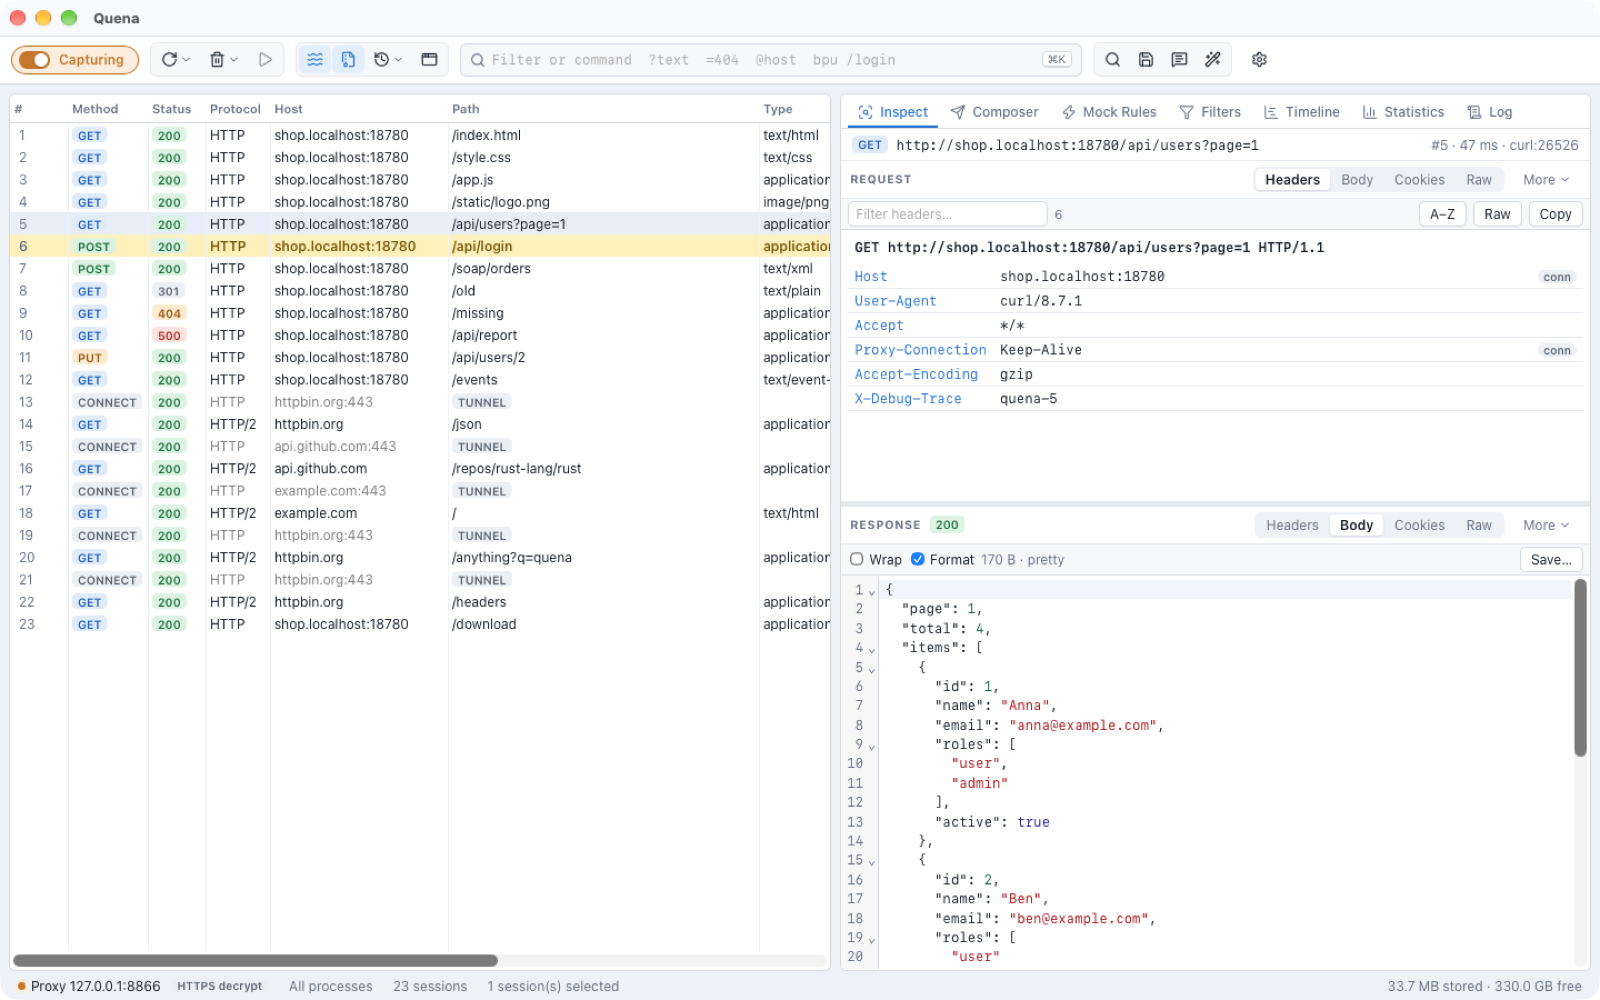
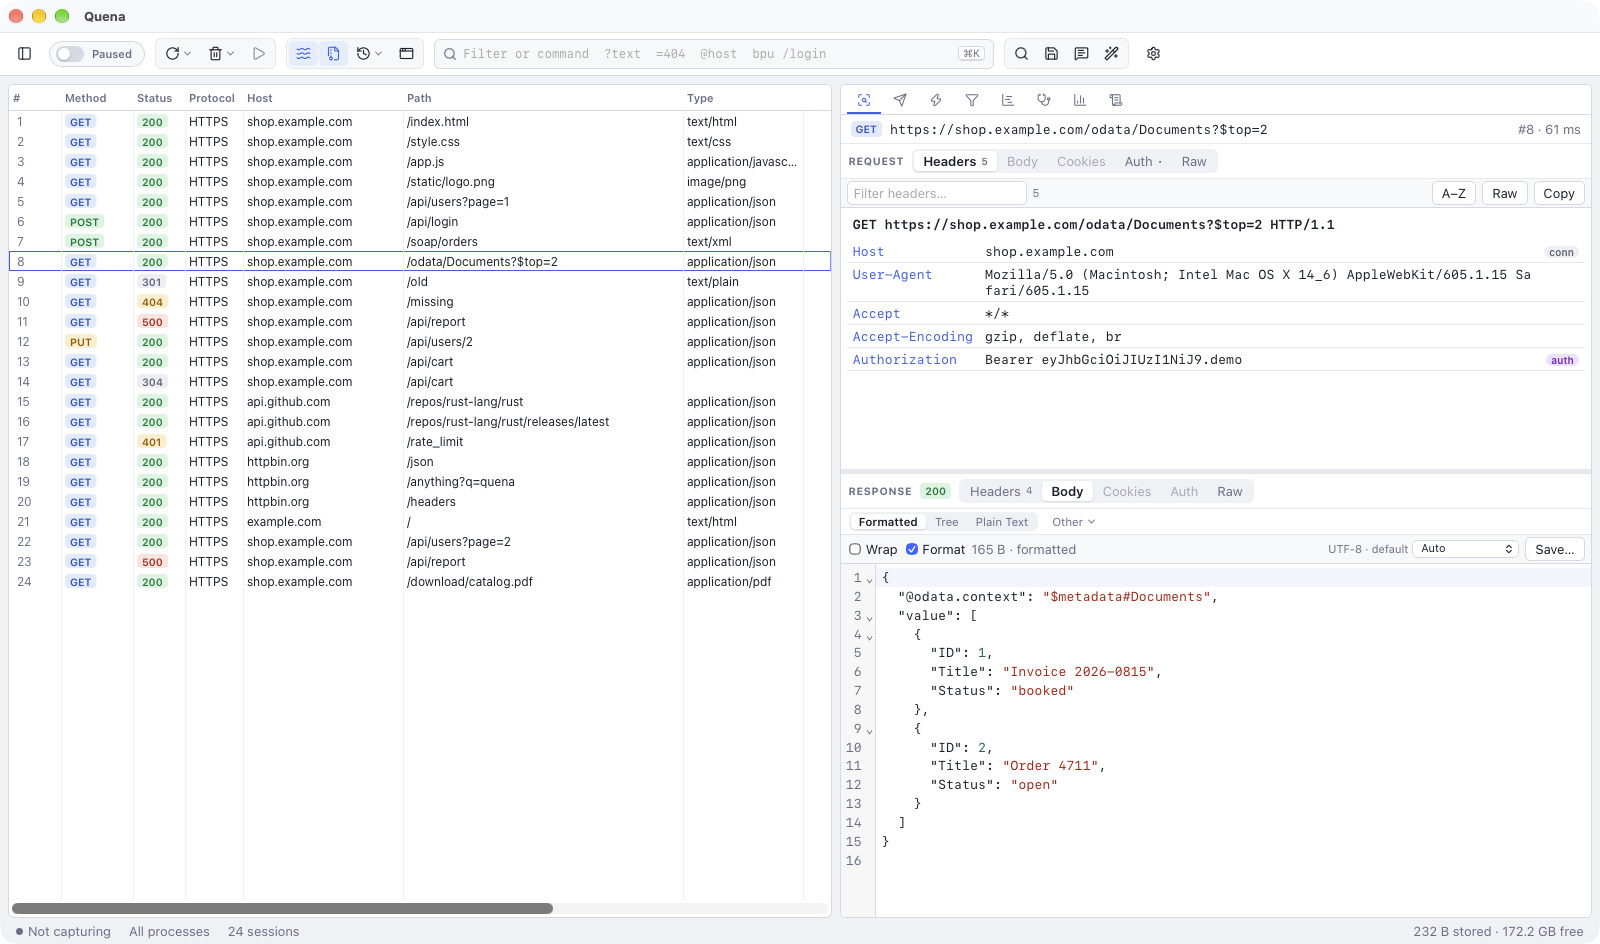
Review fixes: navigator opens with the structure until the list is grouped, a group-by change ends a group scope, groups reload at once; narrower Group column beside the navigator; group counts no longer overlap; layouts without a preset get Quena's; screenshots retaken, docs updated

diff --git a/app/ui/src/panels/Navigator.tsx b/app/ui/src/panels/Navigator.tsx
@@ -26,7 +26,9 @@ const REFRESH_MS = 1500;
 const SHOW = 500;
 
 export function Navigator() {
-  const mode = useStore((s) => s.layout.navMode ?? "groups");
+  // Until chosen: the groups when the list is grouped, else the structure (groups need a
+  // group-by first).
+  const mode = useStore((s) => s.layout.navMode ?? (s.layout.groupBy && s.layout.groupBy !== "none" ? "groups" : "structure"));
   const set = (m: "structure" | "groups") => {
     if (m === mode) return;
     void actions.setScope(null);
@@ -61,29 +63,34 @@ function GroupList() {
   const [filter, setFilter] = useState("");
   const [show, setShow] = useState(SHOW);
   const last = useRef(0);
+  const loadedBy = useRef<GroupBy | null>(null);
   const timer = useRef<number | undefined>(undefined);
 
   // At once when the group-by changes, at most every REFRESH_MS while sessions come in.
   useEffect(() => {
-    if (by === "none") return setData(null);
+    if (by === "none") {
+      loadedBy.current = null;
+      return setData(null);
+    }
+    const changed = loadedBy.current !== by;
+    if (changed) setShow(SHOW);
     const load = () => {
       last.current = Date.now();
-      void api.navGroups(by).then(setData, () => setData(null));
+      // A late answer for the previous group-by is dropped.
+      void api.navGroups(by).then(
+        (d) => loadedBy.current === by && setData(d),
+        () => loadedBy.current === by && setData(null),
+      );
     };
+    loadedBy.current = by;
     window.clearTimeout(timer.current);
-    const wait = Math.max(0, last.current + REFRESH_MS - Date.now());
+    const wait = changed ? 0 : Math.max(0, last.current + REFRESH_MS - Date.now());
     timer.current = window.setTimeout(load, wait);
     return () => window.clearTimeout(timer.current);
   }, [by, version]);
-  useEffect(() => {
-    last.current = 0;
-    setShow(SHOW);
-  }, [by]);
 
-  const choose = (g: GroupBy) => {
-    void actions.setScope(null);
-    void actions.setGroup(g);
-  };
+  // Narrowed to a group of another group-by, setGroup widens the list again.
+  const choose = (g: GroupBy) => void actions.setGroup(g);
   const active = (key: string) => scope?.kind === "group" && scope.by === by && scope.key === key;
   const f = filter.trim().toLowerCase();
   const groups = (data?.groups ?? []).filter((g) => !f || g.label.toLowerCase().includes(f));

diff --git a/app/ui/src/grid/SessionGrid.tsx b/app/ui/src/grid/SessionGrid.tsx
@@ -52,8 +52,9 @@ function groupLabel(r: SessionSummary, first: number): string {
 /** The Group column (first, while the list is grouped) and the visible columns, fitted. */
 export function displayColumns(width: number): ColumnConf[] {
   const { layout } = get();
-  const group: ColumnConf[] =
-    layout.groupBy && layout.groupBy !== "none" ? [{ key: "group", title: t("Group"), width: layout.groupWidth ?? 240, visible: true }] : [];
+  // With the navigator open it lists the groups' names: the column needs less room.
+  const groupWidth = layout.groupWidth ?? (layout.navOpen ? 150 : 240);
+  const group: ColumnConf[] = layout.groupBy && layout.groupBy !== "none" ? [{ key: "group", title: t("Group"), width: groupWidth, visible: true }] : [];
   return fitColumns([...group, ...layout.columns], width);
 }
 
@@ -215,7 +216,8 @@ export class GridController {
           s.layout.columns !== prev.layout.columns ||
           s.layout.preset !== prev.layout.preset ||
           s.layout.groupBy !== prev.layout.groupBy ||
-          s.layout.groupWidth !== prev.layout.groupWidth
+          s.layout.groupWidth !== prev.layout.groupWidth ||
+          s.layout.navOpen !== prev.layout.navOpen
         ) {
           this.updateSpacer();
           this.schedule();
@@ -274,9 +276,10 @@ export class GridController {
     const cw = ctx.measureText(count).width;
     const text = this.ell.fit(ctx, head, width - 22 - cw, FONT_BOLD);
     ctx.fillText(text, x + 14, y + ROW_H / 2 + 0.5);
+    const tw = ctx.measureText(text).width; // in the bold font it was drawn in
     ctx.font = FONT;
     ctx.fillStyle = sel ? p.selFg : p.muted;
-    ctx.fillText(count, x + 14 + ctx.measureText(text).width + 2, y + ROW_H / 2 + 0.5);
+    ctx.fillText(count, x + 14 + tw + 2, y + ROW_H / 2 + 0.5);
   }
 
   totalWidth(): number {
@@ -507,6 +510,7 @@ function Header({ scrollX }: { scrollX: number }) {
   // Re-render when the Group column comes or goes or is resized.
   useStore((s) => s.layout.groupBy);
   useStore((s) => s.layout.groupWidth);
+  useStore((s) => s.layout.navOpen);
   const shown = displayColumns(gridWidth);
   const sort = useStore((s) => s.sort);
   const drag = useRef<{ key: ColumnKey; startX: number; startW: number } | null>(null);

diff --git a/app/ui/src/store.ts b/app/ui/src/store.ts
@@ -168,10 +168,11 @@ export const DEFAULT_LAYOUT: Layout = {
 /** Merge a saved layout (possibly from an older version) with the current defaults. */
 export function restoreLayout(saved: Partial<Layout> | undefined): Layout {
   if (!saved) return { ...DEFAULT_LAYOUT, columns: [...DEFAULT_COLUMNS] };
-  // Layouts saved before presets existed: stacked inspectors meant the classic arrangement.
-  // Unknown/legacy preset names (e.g. from before the rename) fall back by arrangement.
+  // Layouts saved before presets existed (they always had their columns): stacked inspectors
+  // meant the classic arrangement. Unknown/legacy preset names (e.g. from before the rename)
+  // fall back by arrangement; a layout with only a few settings (theme, language …) is Quena's.
   const preset: LayoutPreset =
-    saved.preset && saved.preset in PRESETS ? saved.preset : saved.stacked === false ? "quena" : "classic";
+    saved.preset && saved.preset in PRESETS ? saved.preset : saved.columns && saved.stacked !== false ? "classic" : "quena";
   const base = PRESETS[preset];
   const layout: Layout = { ...DEFAULT_LAYOUT, ...base, ...saved, preset };
   // Titles from the key; columns added in newer versions are appended (hidden if unknown to the preset).

diff --git a/app/ui/src/store.test.ts b/app/ui/src/store.test.ts
@@ -1,0 +1,19 @@
+import { describe, expect, it } from "vitest";
+import { restoreLayout } from "./store";
+
+describe("restoreLayout", () => {
+  it("starts in the Quena layout", () => {
+    expect(restoreLayout(undefined).preset).toBe("quena");
+    // Only a theme or language saved (e.g. written by hand): still Quena, its columns.
+    const l = restoreLayout({ theme: "light" });
+    expect(l.preset).toBe("quena");
+    expect(l.stacked).toBe(true);
+    expect(l.columns.find((c) => c.key === "protocol")?.visible).toBe(false);
+  });
+  it("keeps the arrangement of layouts from before the presets", () => {
+    const cols = restoreLayout(undefined).columns;
+    expect(restoreLayout({ columns: cols, stacked: true }).preset).toBe("classic");
+    expect(restoreLayout({ columns: cols, stacked: false }).preset).toBe("quena");
+    expect(restoreLayout({ preset: "classic" }).preset).toBe("classic");
+  });
+});

diff --git a/app/ui/src/actions.ts b/app/ui/src/actions.ts
@@ -114,6 +114,9 @@ export const actions = {
 
   /** Group the session list (kept with the layout). */
   async setGroup(groupBy: GroupBy) {
+    // A navigator group of the old group-by means nothing under the new one.
+    const scope = get().scope?.scope;
+    if (scope?.kind === "group" && scope.by !== groupBy) await actions.setScope(null);
     set((s) => ({ layout: { ...s.layout, groupBy } }));
     actions.saveLayout();
     await api.setGroup(groupBy);
@@ -122,6 +125,7 @@ export const actions = {
 
   /** Narrow the list to a navigator group or path (`null`: all sessions again). */
   async setScope(scope: NavScope | null, label = "") {
+    if (!scope && !get().scope) return; // nothing to widen: keep the list as it is
     await api.setScope(scope);
     set({ scope: scope ? { scope, label } : null });
     rowCache.clear();

diff --git a/README.md b/README.md
@@ -230,6 +230,7 @@ in the [manual](https://hkiam.github.io/quena/ci/).
   auth loops, caching, compression, OData queries, latency/bandwidth sensitivity
 - Filters, Find, Statistics, Timeline, Compare, Text Tools
 - **Grouping** by keep-alive connection, host, process, trace id or session cookie
+- **Navigator**: hosts and paths or the groups next to the list; a click narrows it
 - Comments, color marks, custom column
 - **MCP server**: AI agents (Claude Code …) read the capture and, if allowed,
   set rules and breakpoints and send requests
@@ -252,31 +253,37 @@ in the [manual](https://hkiam.github.io/quena/ci/).
 <table>
 <tr>
 <td width="50%">
-<img src="docs/screenshots/overview.png" alt="Quena main window: session list, request headers and pretty-printed JSON response side by side">
-<p align="center"><sub><b>Inspect</b> — session list, headers and pretty-printed bodies side by side</sub></p>
+<img src="docs/screenshots/overview.png" alt="Quena main window: session list on the left, the request headers above the pretty-printed JSON response on the right">
+<p align="center"><sub><b>Inspect</b> — session list, request above response, the views that fit the body</sub></p>
 </td>
 <td width="50%">
-<img src="docs/screenshots/soap-inspector.png" alt="SOAP request: header table with topic tags and the SOAP inspector showing the parsed response">
-<p align="center"><sub><b>SOAP & XML</b> — pretty-printed, with auto-detected SOAP and Atom/OData inspectors</sub></p>
+<img src="docs/screenshots/soap-inspector.png" alt="SOAP request and response in the SOAP inspector: version, action, operation and the parsed body">
+<p align="center"><sub><b>SOAP & XML</b> — detected by content, with SOAP and Atom/OData inspectors</sub></p>
 </td>
 </tr>
 <tr>
 <td width="50%">
-<img src="docs/screenshots/statistics.png" alt="Statistics for 13 selected sessions: timing, response codes, bytes by content type">
+<img src="docs/screenshots/navigator.png" alt="The navigator's host/path structure on the left; shop.example.com/api/ is picked and the list shows only its 8 sessions">
+<p align="center"><sub><b>Navigator</b> — optional: hosts, paths or groups; a click narrows the list</sub></p>
+</td>
+<td width="50%">
+<img src="docs/screenshots/statistics.png" alt="Statistics for 24 selected sessions: timing, response codes, bytes by content type and hosts">
 <p align="center"><sub><b>Statistics</b> — timing, status codes and bytes by content type for any selection</sub></p>
 </td>
+</tr>
+<tr>
 <td width="50%">
 <img src="docs/screenshots/scripting.png" alt="Rules Script editor with a JavaScript rules script and its console output">
 <p align="center"><sub><b>JavaScript rules</b> — hooks, custom menu and column, live console</sub></p>
 </td>
+<td width="50%">
+<img src="docs/screenshots/classic-layout.png" alt="Optional Classic layout: dense session list with more columns, request above response">
+<p align="center"><sub><b>Classic layout</b> — optional: denser list with more columns</sub></p>
+</td>
 </tr>
 <tr>
-<td width="50%">
-<img src="docs/screenshots/classic-layout.png" alt="Optional Classic layout: dense session list, request above response">
-<p align="center"><sub><b>Classic layout</b> — optional: denser list, request above response</sub></p>
-</td>
-<td width="50%">
-<img src="docs/screenshots/overview-dark.png" alt="Inspecting an OData JSON response in the dark theme">
+<td colspan="2" align="center">
+<img src="docs/screenshots/overview-dark.png" alt="Inspecting an OData JSON response in the dark theme" width="50%">
 <p align="center"><sub><b>Dark theme</b> — or light, or like the system</sub></p>
 </td>
 </tr>

diff --git a/CHANGELOG.md b/CHANGELOG.md
@@ -33,7 +33,7 @@ contain breaking changes (settings, file formats, plugin API).
   same URL (a rewrite rule).
 - **More context menus**: below the sessions (open archive, save all, select all, remove
   all), on timeline rows (inspect, copy URL, remove from the timeline, the selection's menu),
-  on structure nodes (selects their sessions, then the session menu), on diagnostic findings
+  on navigator entries (show only, select their sessions), on diagnostic findings
   (select affected sessions, copy), log lines and statistics.
 
 - **Navigator** left of the session list (off by default; toolbar button, *View → Navigator*,
@@ -42,7 +42,9 @@ contain breaking changes (settings, file formats, plugin API).
   narrows the list to that group or path, on top of the filters; a bar above the list
   shows it and brings everything back. *Structure* moved from the right pane into the
   navigator; there a click now narrows the list instead of selecting (right-click →
-  *Select These Sessions*).
+  *Select These Sessions*). It opens with the structure until the list is grouped; while
+  it is open, the list's Group column starts narrower.
+- README and manual screenshots retaken with the new defaults, plus one of the navigator.
 
 ### Fixed
 - A plain XML document sent as `text/xml` or `application/xml` no longer opens in the SOAP
@@ -50,6 +52,9 @@ contain breaking changes (settings, file formats, plugin API).
   element of the decoded body (SOAP envelope, Atom feed or entry, OData metadata) instead
   of trusting the content type. JSON and XML with a wrong or missing content type get the
   matching views.
+- The session count of a list group no longer overlaps the group's name.
+- A saved layout without a preset (e.g. only a theme set by hand) opened with the Classic
+  columns; it now gets the Quena layout.
 
 ## [0.1.4] — 2026-10-02
 

diff --git a/docs/coming-from-fiddler.md b/docs/coming-from-fiddler.md
@@ -36,12 +36,15 @@ keyboard shortcuts. Quena uses its own names for some features — this page map
 
 ## Layout
 
-Quena starts with its own layout: the session list on the left, request and response side by
-side, rows coloured by outcome. If you prefer a dense list with more columns and the request
-above the response, choose **Classic** — on first start, in *Settings → General*, or switch the
-inspector arrangement any time with *View → Request Above / Beside Response*.
-Inspectors show the most common views (Headers, Body, Cookies, Raw and the content-specific
-ones) as tabs; the others are under **More**.
+Quena starts with its own layout: the session list on the left, the request above the
+response. If you prefer a dense list with more columns, choose **Classic** in
+*Settings → General*; *View → Request Above / Beside Response* switches only the inspector
+arrangement. Each inspector has the sections *Headers*, *Body*, *Cookies*, *Auth* and *Raw*;
+below *Body* are the views that fit the content (JSON tree, SOAP, image …), the others under
+**Other**. *Settings → General → Inspector views → Flat* brings back Fiddler's single row of
+tabs. The optional **navigator** (`Ctrl/⌘ Alt N`) left of the list narrows it to a host,
+path, connection or process — like Fiddler's *Filter Now* on a host, without touching the
+filters.
 
 ## Map Remote and Map Local
 

diff --git a/manual/docs/sessions.md b/manual/docs/sessions.md
@@ -37,11 +37,14 @@ The navigator left of the list (off by default) gives an overview and narrows th
 one part of the traffic. Show it with the ▯ button at the left of the toolbar,
 *View → Navigator* or `Ctrl/⌘ Alt N`.
 
+![The navigator's structure: shop.example.com/api/ is picked, the list shows only its 8 sessions](img/navigator.png)
+
 - **Groups** lists the groups of the sessions (see *Grouping* below) — every connection,
   host, process, trace id, session cookie or Custom value — with how many sessions and
   errors each has. The choice of *Group by* is the list's own, so the list shows the same
   groups.
-- **Structure** shows hosts and paths as a tree (see [Analyze](analyze.md#structure)).
+- **Structure** shows hosts and paths as a tree (see [Analyze](analyze.md#structure)). It
+  is what the navigator opens with while the list is not grouped.
 - **Click an entry to show only its sessions** in the list. A bar above the list says what
   it shows; ✕ there, *All sessions* or a second click on the entry shows everything
   again. The navigator itself always lists everything the filters let through.

diff --git a/manual/docs/coming-from-fiddler.md b/manual/docs/coming-from-fiddler.md
@@ -45,8 +45,12 @@ See [Archives and copying](archives.md) and [Mock Rules](change-replay.md#mock-r
 Quena starts with its own layout: the session list on the left, the request above the
 response. If you prefer a dense list with more columns, choose **Classic** in
 *Settings → General*; *View → Request Above / Beside Response* switches only the inspector
-arrangement. Inspectors show as many views as
-fit as tabs; the others are under **More**.
+arrangement. Each inspector has the sections *Headers*, *Body*, *Cookies*, *Auth* and *Raw*;
+below *Body* are the views that fit the content (JSON tree, SOAP, image …), the others under
+**Other**. *Settings → General → Inspector views → Flat* brings back Fiddler's single row of
+tabs. The optional **navigator** (`Ctrl/⌘ Alt N`) left of the list narrows it to a host,
+path, connection or process — like Fiddler's *Filter Now* on a host, without touching the
+filters.
 
 ## Map Remote and Map Local
 

diff --git a/manual/docs/index.md b/manual/docs/index.md
@@ -4,7 +4,7 @@
 traffic between your applications and the servers they talk to, and lets you inspect,
 change, replay and mock it — **and it diagnoses it.**
 
-![Quena main window: session list, request headers and pretty-printed JSON response side by side](img/overview.png)
+![Quena main window: session list on the left, the request headers above the pretty-printed JSON response on the right](img/overview.png)
 
 ## Diagnostics: from thousands of sessions to what matters
 

diff --git a/manual/docs/inspect.md b/manual/docs/inspect.md
@@ -10,7 +10,7 @@ with its own row of views.
 - Drag the splitter between them to change the proportions.
 - The response card shows the status as a badge.
 
-![SOAP request: header table with topic tags and the SOAP inspector showing the parsed response](img/soap-inspector.png)
+![SOAP request and response in the SOAP inspector: version, action, operation and the parsed body](img/soap-inspector.png)
 
 ## Sections and views
 
